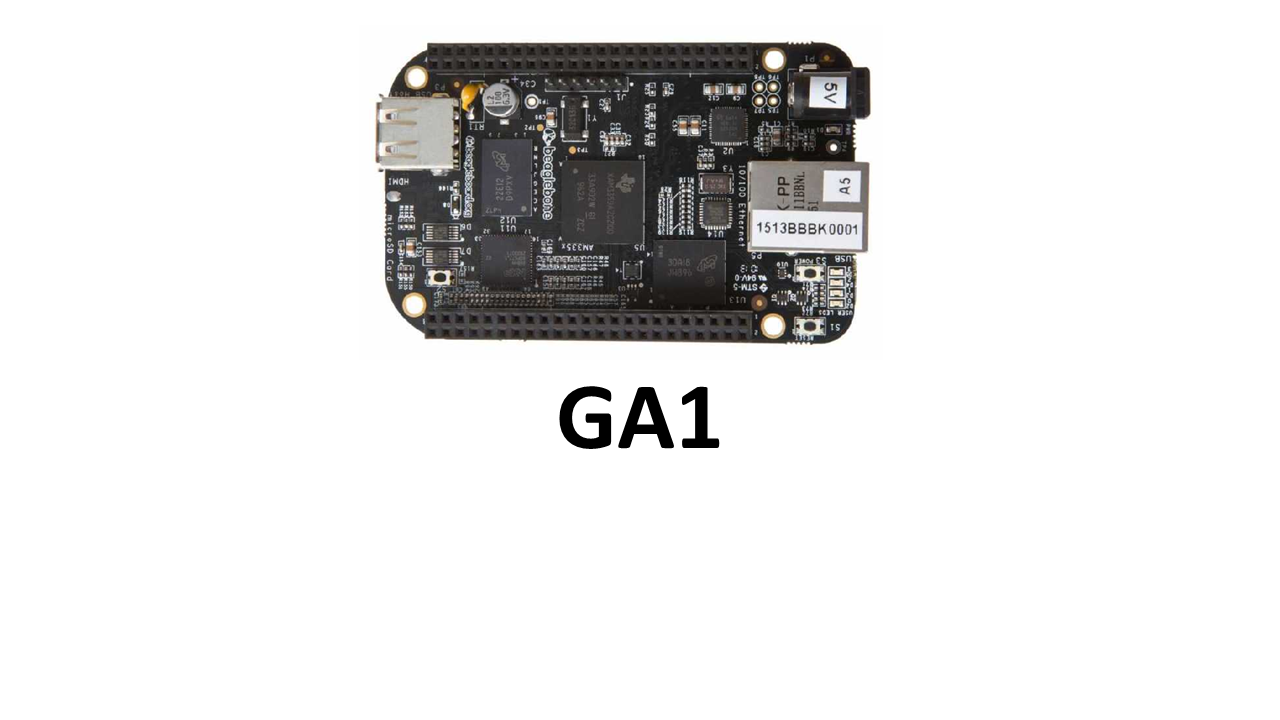
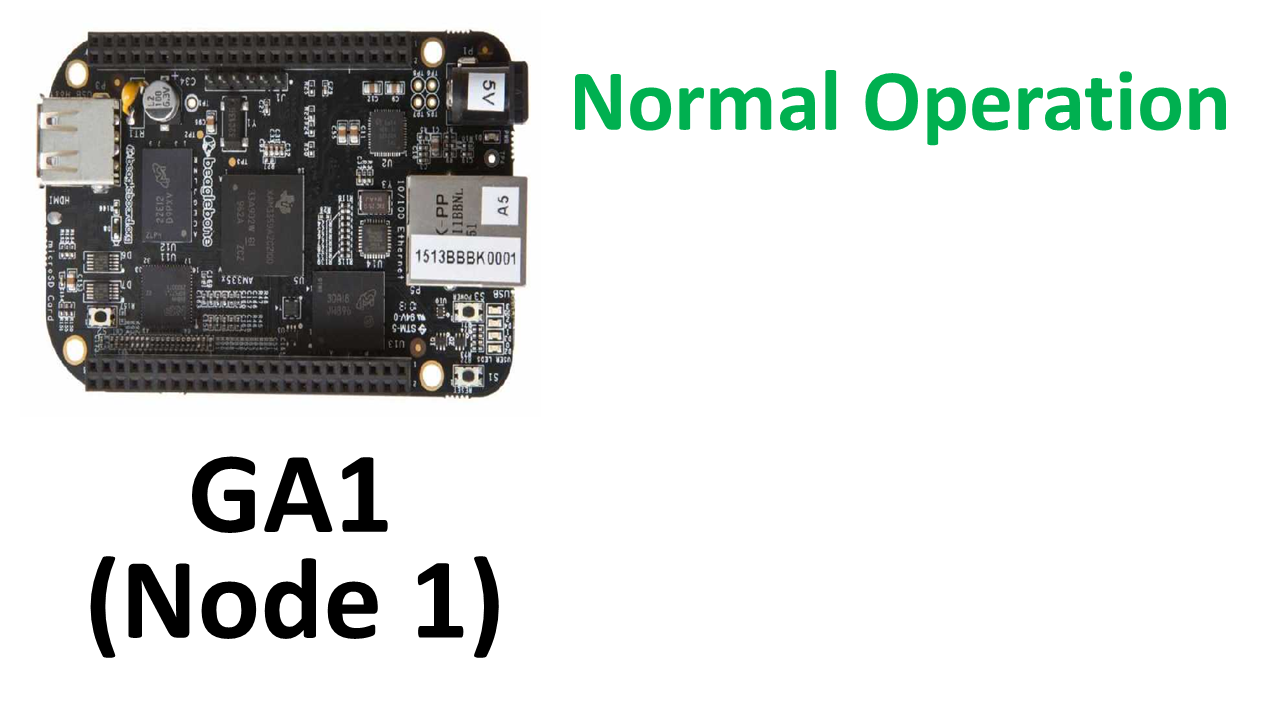
Added images for story

diff --git a/GUI/display_graph.py b/GUI/display_graph.py
@@ -16,11 +16,16 @@ ALERT_IMAGE = "../Data/alert_state.png"
 
 WSU_LOGO = "Arpa_demo_nodes/RIAPS_Logo_list.png"
 GA1_NORMAL = "Arpa_demo_nodes/Slide1.PNG"
-SA1_NORMAL = "Arpa_demo_nodes/Slide2.PNG"
-SA2_NORMAL = "Arpa_demo_nodes/Slide3.PNG"
-GA1_RAS = "Arpa_demo_nodes/Slide4.PNG"
-SA1_RAS = "Arpa_demo_nodes/Slide5.PNG"
-SA2_RAS = "Arpa_demo_nodes/Slide6.PNG"
+GA1_ALERT = "Arpa_demo_nodes/Slide2.PNG"
+GA1_STABLE = "Arpa_demo_nodes/Slide3.PNG"
+SA1_NORMAL = "Arpa_demo_nodes/Slide4.PNG"
+SA1_ALERT = "Arpa_demo_nodes/Slide5.PNG"
+SA1_STABLE = "Arpa_demo_nodes/Slide6.PNG"
+SA2_NORMAL = "Arpa_demo_nodes/Slide7.PNG"
+SA2_ALERT = "Arpa_demo_nodes/Slide8.PNG"
+SA2_STABLE = "Arpa_demo_nodes/Slide9.PNG"
+
+
 
 LINE_DIAGRAM = "Arpa_demo_nodes/14-bus-jing.png"
 
@@ -142,19 +147,24 @@ class SystemStateWidget(QtGui.QWidget):
         super(SystemStateWidget, self).__init__(parent=parent)
         self.systemStateLayout = QtGui.QVBoxLayout(self)
 
+        self.isAlert = False
+
         self.ga1Label = QtGui.QLabel(self)
         self.ga1NormalPixmap = QtGui.QPixmap(GA1_NORMAL).scaledToHeight(100)
-        self.ga1RASPixmap = QtGui.QPixmap(GA1_RAS).scaledToHeight(100)
+        self.ga1AlertPixmap = QtGui.QPixmap(GA1_ALERT).scaledToHeight(100)
+        self.ga1StablePixmap = QtGui.QPixmap(GA1_STABLE).scaledToHeight(100)
         self.ga1Label.setPixmap(self.ga1NormalPixmap)
         
         self.sa1Label = QtGui.QLabel(self)
         self.sa1NormalPixmap = QtGui.QPixmap(SA1_NORMAL).scaledToHeight(100)
-        self.sa1RASPixmap = QtGui.QPixmap(SA1_RAS).scaledToHeight(100)
+        self.sa1AlertPixmap = QtGui.QPixmap(SA1_ALERT).scaledToHeight(100)
+        self.sa1StablePixmap = QtGui.QPixmap(SA1_STABLE).scaledToHeight(100)
         self.sa1Label.setPixmap(self.sa1NormalPixmap)
 
         self.sa2Label = QtGui.QLabel(self)
         self.sa2NormalPixmap = QtGui.QPixmap(SA2_NORMAL).scaledToHeight(100)
-        self.sa2RASPixmap = QtGui.QPixmap(SA2_RAS).scaledToHeight(100)
+        self.sa2AlertPixmap = QtGui.QPixmap(SA2_ALERT).scaledToHeight(100)
+        self.sa2StablePixmap = QtGui.QPixmap(SA2_STABLE).scaledToHeight(100)
         self.sa2Label.setPixmap(self.sa2NormalPixmap)
 
         self.systemStateLayout.addWidget(self.ga1Label)
@@ -162,14 +172,23 @@ class SystemStateWidget(QtGui.QWidget):
         self.systemStateLayout.addWidget(self.sa2Label)
 
     def alert(self):
-        self.ga1Label.setPixmap(self.ga1RASPixmap)
-        self.sa1Label.setPixmap(self.sa1RASPixmap)
-        self.sa2Label.setPixmap(self.sa2RASPixmap)
+        self.isAlert = True
+        self.ga1Label.setPixmap(self.ga1AlertPixmap)
+        self.sa1Label.setPixmap(self.sa1AlertPixmap)
+        self.sa2Label.setPixmap(self.sa2AlertPixmap)
 
     def reset(self):
+        self.isAlert = False
         self.ga1Label.setPixmap(self.ga1NormalPixmap)
         self.sa1Label.setPixmap(self.sa1NormalPixmap)
         self.sa2Label.setPixmap(self.sa2NormalPixmap)
+
+    def stable(self):
+        self.isAlert = False
+        self.ga1Label.setPixmap(self.ga1StablePixmap)
+        self.sa1Label.setPixmap(self.sa1StablePixmap)
+        self.sa2Label.setPixmap(self.sa2StablePixmap)
+
 
 class GraphWidget(QtGui.QWidget):
     def __init__(self, parent=None):
@@ -254,8 +273,13 @@ class GraphWidget(QtGui.QWidget):
         if (self.speed != self.w1.getSpeed()):
             self.speed = self.w1.getSpeed()
             self.timer.setInterval(int(TIMEOUT/self.speed))
-        if self.normalReadings[self.index] < EMERGENCY_LIMIT:
+
+        if self.rasReadings[-1] < EMERGENCY_LIMIT:
             self.systemStateLayout.alert()
+        else:
+            if self.systemStateLayout.isAlert:
+                self.systemStateLayout.stable()
+            
         
     def showFullPlot(self):
         self.timer.setInterval(5000)
